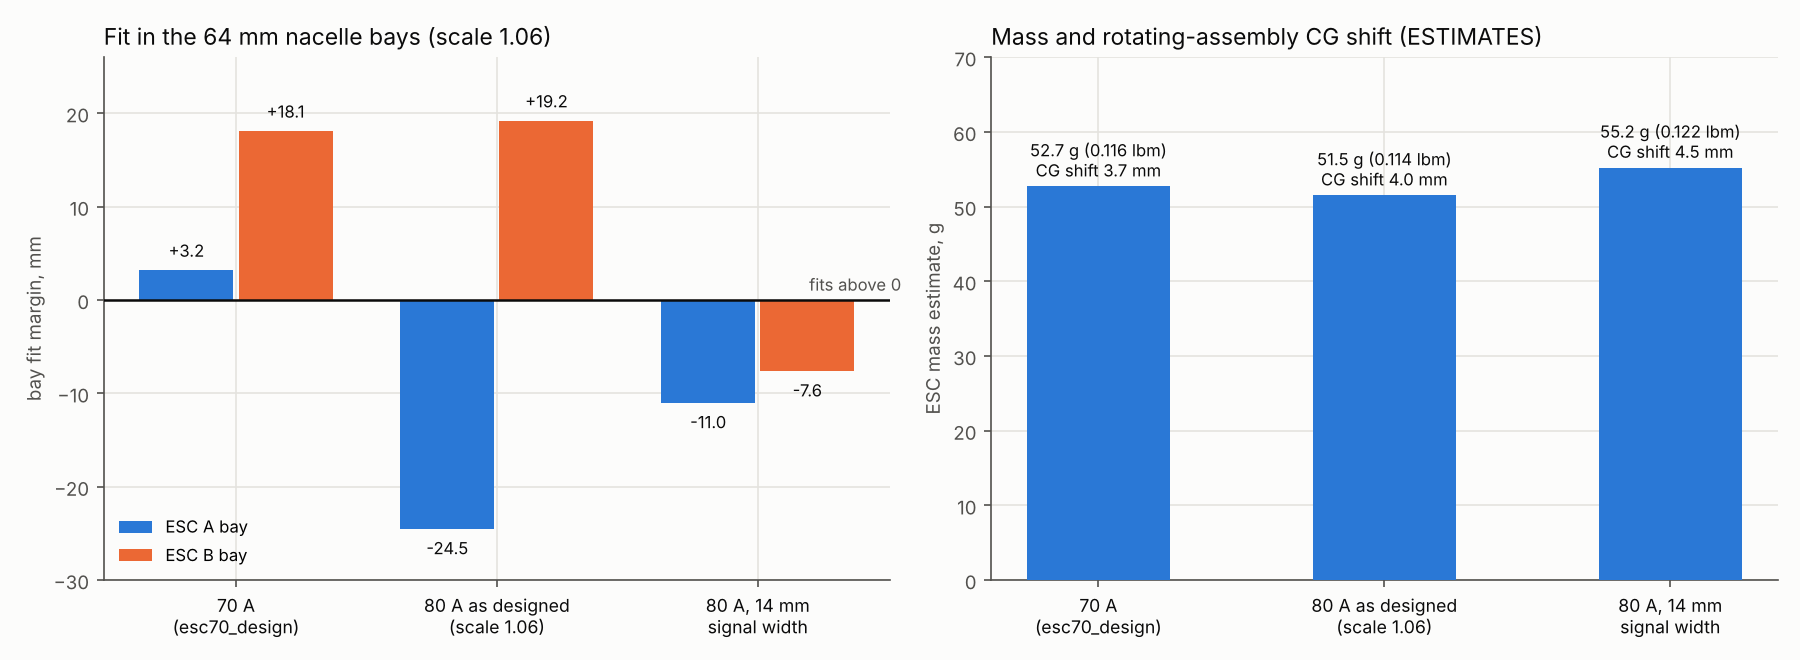
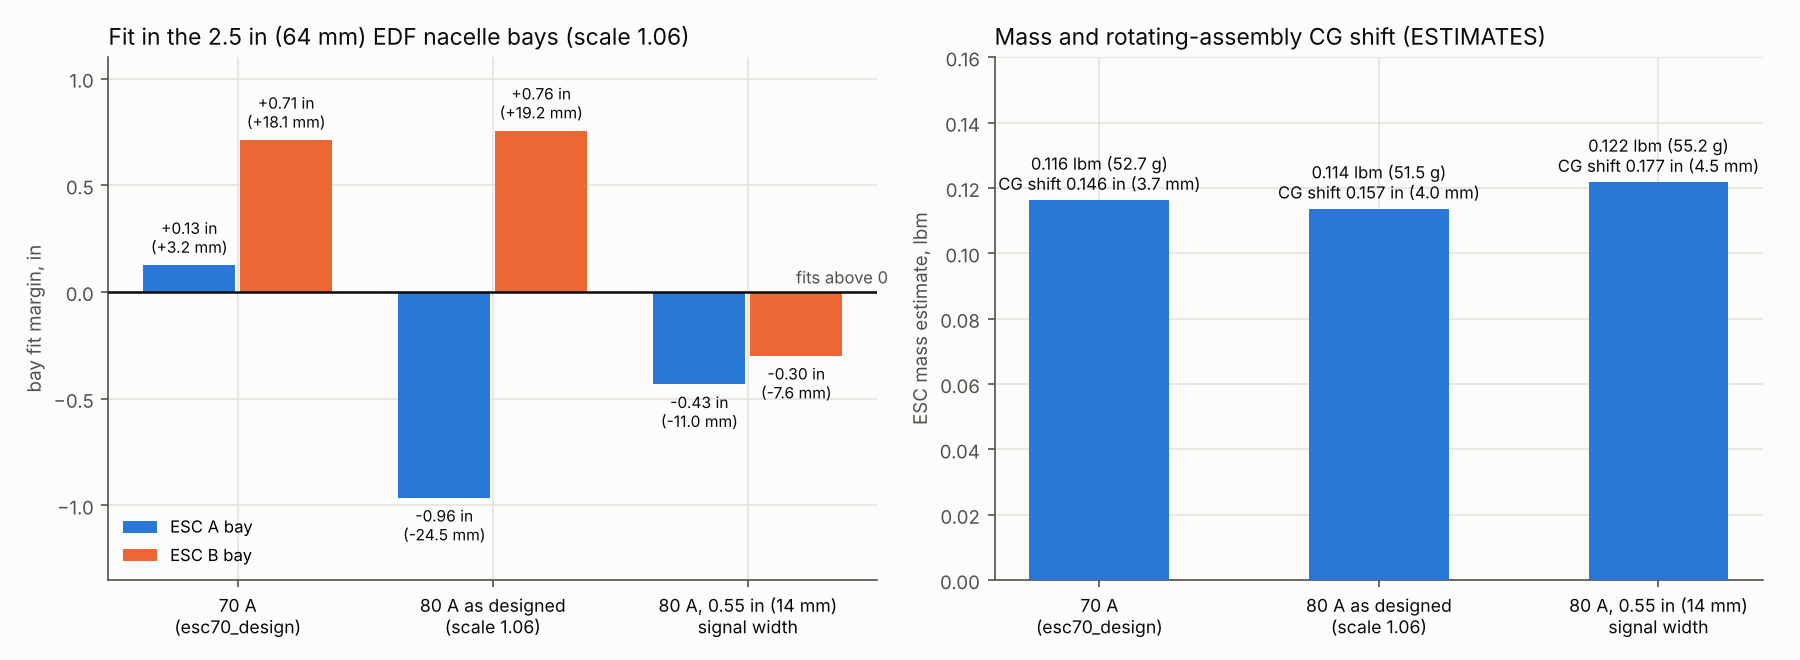
docs(od-3): figures and brief in inches and lbm first, metric in parentheses
The bay-fit and CG-shift figure plotted millimetres and the mass panel
led with grams; the power-path figure gave the phase-lead rating as
"200 C". The figures now plot inches and lbm with metric in parentheses
(source values stay in the tool's mm and g so they trace to
esc80_cooptimize.py), and the brief's tables and the WBS OD-3 note follow.

Claude-Session: https://claude.ai/code/session_0174Nei9LB7tYuXyTSNqF7z2

diff --git a/tools/od3_esc_figures.py b/tools/od3_esc_figures.py
@@ -56,15 +56,19 @@ I_WIRE = 48.0            # A, 10 AWG feed continuous on paper, option A (wire re
 RISE_70 = 68.1 - 25.0    # K at 70 A, esc80_cooptimize.py on esc70_design.json
 T_LIMIT_C = 125.0
 
+MM_IN = 25.4
+G_LBM = 453.592
+# Source values stay in the tool's native units (mm, g) so they trace to esc80_cooptimize.py;
+# the figures plot inches and lbm first, metric in parentheses (AGENTS.md section 5).
 FIT = {  # bay fit margin, mm (positive = fits); A and B are the two ESCs per nacelle
     "70 A\n(esc70_design)": (3.2, 18.1),
     "80 A as designed\n(scale 1.06)": (-24.5, 19.2),
-    "80 A, 14 mm\nsignal width": (-11.0, -7.6),
+    "80 A, 0.55 in (14 mm)\nsignal width": (-11.0, -7.6),
 }
 MASS = {  # ESC mass estimate g, CG shift of the rotating assembly mm
     "70 A\n(esc70_design)": (52.7, 3.7),
     "80 A as designed\n(scale 1.06)": (51.5, 4.0),
-    "80 A, 14 mm\nsignal width": (55.2, 4.5),
+    "80 A, 0.55 in (14 mm)\nsignal width": (55.2, 4.5),
 }
 
 
@@ -145,7 +149,7 @@ def fig_path(out: Path) -> None:
         ("Branch fuse\n(NAC-64-FUSE-COORD)", "carry 44 A cont.,\n57-63 A for 10 s"),
         ("4 x 10 AWG feed\nin the CF spar", "about 33-48 A on paper;\nthermal test decides"),
         ("Open-Secure-ESC\n70 A (OD-3)", "I²t limit: 60 A / 10 s,\nthen wire rating"),
-        ("3 x 12 AWG phase\n200 C", "about 38 A RMS at 44 A;\nload-bank test"),
+        ("3 x 12 AWG phase\n392 °F (200 °C)", "about 38 A RMS at 44 A;\nload-bank test"),
         ("QF2822-2300KV\nmotor", "57 A at 24 V;\n60 A / 10 s"),
     ]
     xs = np.linspace(1.0, 11.0, len(blocks))
@@ -207,27 +211,33 @@ def fig_fit_mass(out: Path) -> None:
     style(a1)
     for k, (col, lab) in enumerate(((BLUE, "ESC A bay"), (ORANGE, "ESC B bay"))):
         vals = [FIT[n][k] for n in names]
-        a1.bar(x + (k - 0.5) * (w + 0.02), vals, width=w, color=col, zorder=3, label=lab)
+        a1.bar(x + (k - 0.5) * (w + 0.02), [v / MM_IN for v in vals], width=w, color=col,
+               zorder=3, label=lab)
         for xi, v in zip(x, vals):
-            a1.text(xi + (k - 0.5) * (w + 0.02), v + (1 if v >= 0 else -1), f"{v:+.1f}",
-                    ha="center", va="bottom" if v >= 0 else "top", fontsize=8, color=INK)
+            vi = v / MM_IN
+            a1.text(xi + (k - 0.5) * (w + 0.02), vi + (0.04 if v >= 0 else -0.04),
+                    f"{vi:+.2f} in\n({v:+.1f} mm)", ha="center",
+                    va="bottom" if v >= 0 else "top", fontsize=7.5, color=INK)
     a1.axhline(0, color=INK, lw=1.2, zorder=4)
-    a1.text(2.55, 1.0, "fits above 0", ha="right", fontsize=8, color=INK2)
+    a1.text(2.55, 0.04, "fits above 0", ha="right", fontsize=8, color=INK2)
     a1.set_xticks(x, names, fontsize=8.5, color=INK)
-    a1.set_ylabel("bay fit margin, mm", color=INK2, fontsize=9)
-    a1.set_ylim(-30, 26)
+    a1.set_ylabel("bay fit margin, in", color=INK2, fontsize=9)
+    a1.set_ylim(-1.35, 1.1)
     a1.legend(frameon=False, fontsize=8, loc="lower left")
-    a1.set_title("Fit in the 64 mm nacelle bays (scale 1.06)", loc="left", fontsize=11, color=INK)
+    a1.set_title("Fit in the 2.5 in (64 mm) EDF nacelle bays (scale 1.06)", loc="left",
+                 fontsize=11, color=INK)
 
     style(a2)
     m = [MASS[n][0] for n in names]
-    a2.bar(x, m, width=0.5, color=BLUE, zorder=3)
+    a2.bar(x, [v / G_LBM for v in m], width=0.5, color=BLUE, zorder=3)
     for xi, v, n in zip(x, m, names):
-        a2.text(xi, v + 0.8, f"{v:.1f} g ({v / 453.592:.3f} lbm)\nCG shift {MASS[n][1]:.1f} mm",
+        cg = MASS[n][1]
+        a2.text(xi, v / G_LBM + 0.002, f"{v / G_LBM:.3f} lbm ({v:.1f} g)\n"
+                f"CG shift {cg / MM_IN:.3f} in ({cg:.1f} mm)",
                 ha="center", va="bottom", fontsize=8, color=INK)
     a2.set_xticks(x, names, fontsize=8.5, color=INK)
-    a2.set_ylabel("ESC mass estimate, g", color=INK2, fontsize=9)
-    a2.set_ylim(0, 70)
+    a2.set_ylabel("ESC mass estimate, lbm", color=INK2, fontsize=9)
+    a2.set_ylim(0, 0.16)
     a2.set_title("Mass and rotating-assembly CG shift (ESTIMATES)", loc="left", fontsize=11,
                  color=INK)
     fig.tight_layout()

diff --git a/docs/ESC_RATING_OD3_BRIEF.md b/docs/ESC_RATING_OD3_BRIEF.md
@@ -106,9 +106,9 @@ Run with `tools/esc80_cooptimize.py` at nacelle scale 1.06 with the 70 A file's 
 
 | Design | ESC A bay margin | ESC B bay margin |
 |---|---|---|
-| 70 A (`esc70_design.json`) | +3.2 mm | +18.1 mm |
-| 80 A as designed (`esc80_design_m2.json`) | **−24.5 mm** | +19.2 mm |
-| 80 A with the 70 A board's 14 mm signal width | **−11.0 mm** | **−7.6 mm** |
+| 70 A (`esc70_design.json`) | +0.13 in (+3.2 mm) | +0.71 in (+18.1 mm) |
+| 80 A as designed (`esc80_design_m2.json`) | **−0.96 in (−24.5 mm)** | +0.76 in (+19.2 mm) |
+| 80 A with the 70 A board's 0.55 in (14 mm) signal width | **−0.43 in (−11.0 mm)** | **−0.30 in (−7.6 mm)** |
 
 The 80 A board does not fit at scale 1.06. Fitting it would mean a larger nacelle scale (re-opening
 the nacelle geometry, OD-17 and the pivot) or giving up one of the two bays.
@@ -117,12 +117,13 @@ the nacelle geometry, OD-17 and the pivot) or giving up one of the two bays.
 
 | Design | ESC mass (ESTIMATE) | Rotating-assembly CG shift |
 |---|---|---|
-| 70 A | 0.116 lbm (52.7 g) | 3.7 mm |
-| 80 A as designed | 0.114 lbm (51.5 g) | 4.0 mm |
-| 80 A, 14 mm signal width | 0.122 lbm (55.2 g) | 4.5 mm |
+| 70 A | 0.116 lbm (52.7 g) | 0.146 in (3.7 mm) |
+| 80 A as designed | 0.114 lbm (51.5 g) | 0.157 in (4.0 mm) |
+| 80 A, 0.55 in (14 mm) signal width | 0.122 lbm (55.2 g) | 0.177 in (4.5 mm) |
 
-Within 2.5 g per ESC (10 g per aircraft); not a discriminator. The AUW ledger and BOM already carry
-the 70 A roll-up (52.7 g, OSESC-NAC); no ledger change follows from the decision.
+Within 0.006 lbm (2.5 g) per ESC, 0.022 lbm (10 g) per aircraft; not a discriminator. The AUW
+ledger and BOM already carry
+the 70 A roll-up (0.116 lbm (52.7 g), OSESC-NAC); no ledger change follows from the decision.
 
 ## Canonical shape
 
@@ -134,9 +135,9 @@ larger nacelle scale to fit an 80 A board would change it.)
 | | A. 70 A Open-Secure-ESC | B. 80 A Open-Secure-ESC | C. Commercial ESC |
 |---|---|---|---|
 | Covers motor demand | yes (44 A sustained, 63 A peak) | yes | only if rated ≥ 80 A and analysed |
-| Fits the bays at scale 1.06 | yes (+3.2 / +18.1 mm) | **no** (−24.5 or −11.0 mm) | unknown per part |
+| Fits the bays at scale 1.06 | yes (+0.13 / +0.71 in (+3.2 / +18.1 mm)) | **no** (−0.96 or −0.43 in (−24.5 or −11.0 mm)) | unknown per part |
 | Thermal at operating current | same as B | same as A | unverified label |
-| Mass | 52.7 g | 51.5-55.2 g | per part |
+| Mass | 0.116 lbm (52.7 g) | 0.114-0.122 lbm (51.5-55.2 g) | per part |
 | Follows maker's 80 A figure | no (rating by analysis) | yes | must |
 | Cost and schedule | design exists | larger nacelle or one bay lost | analysis per part; loses the Open-Secure-ESC features |
 

diff --git a/airframe/wings-nacelles/WBS.md b/airframe/wings-nacelles/WBS.md
@@ -2377,7 +2377,7 @@ hover clearance was measured. Holding 45.15 mm would cost a 40 % t/c tip.
         and figures: `docs/ESC_RATING_OD3_BRIEF.md`, figures by `tools/od3_esc_figures.py`): demand is 44 A sustained (worst-loaded fan),
         57 A full throttle at 24 V, about 63 A on a fresh 25.2 V pack, and the motor's own limit is
         60 A / 10 s, so a 70 A board covers every current the motor can use. At nacelle scale 1.06 the
-        80 A layout misses the bays by 24.5 mm (11.0 mm with the 70 A signal width) and has the same
+        80 A layout misses the bays by 0.96 in (24.5 mm), or 0.43 in (11.0 mm) with the 70 A signal width, and has the same
         loss per A² (8.7 mW/A², two FETs per leg), so it buys no thermal margin at the operating
         current. Conditions: NAC-64-ESC70-QUAL below, and the I-squared-t current limit in
         NAC-64-FUSE-COORD. The 80 A sub-items that are about bay placement (.a, .b, .j, .k) now apply
